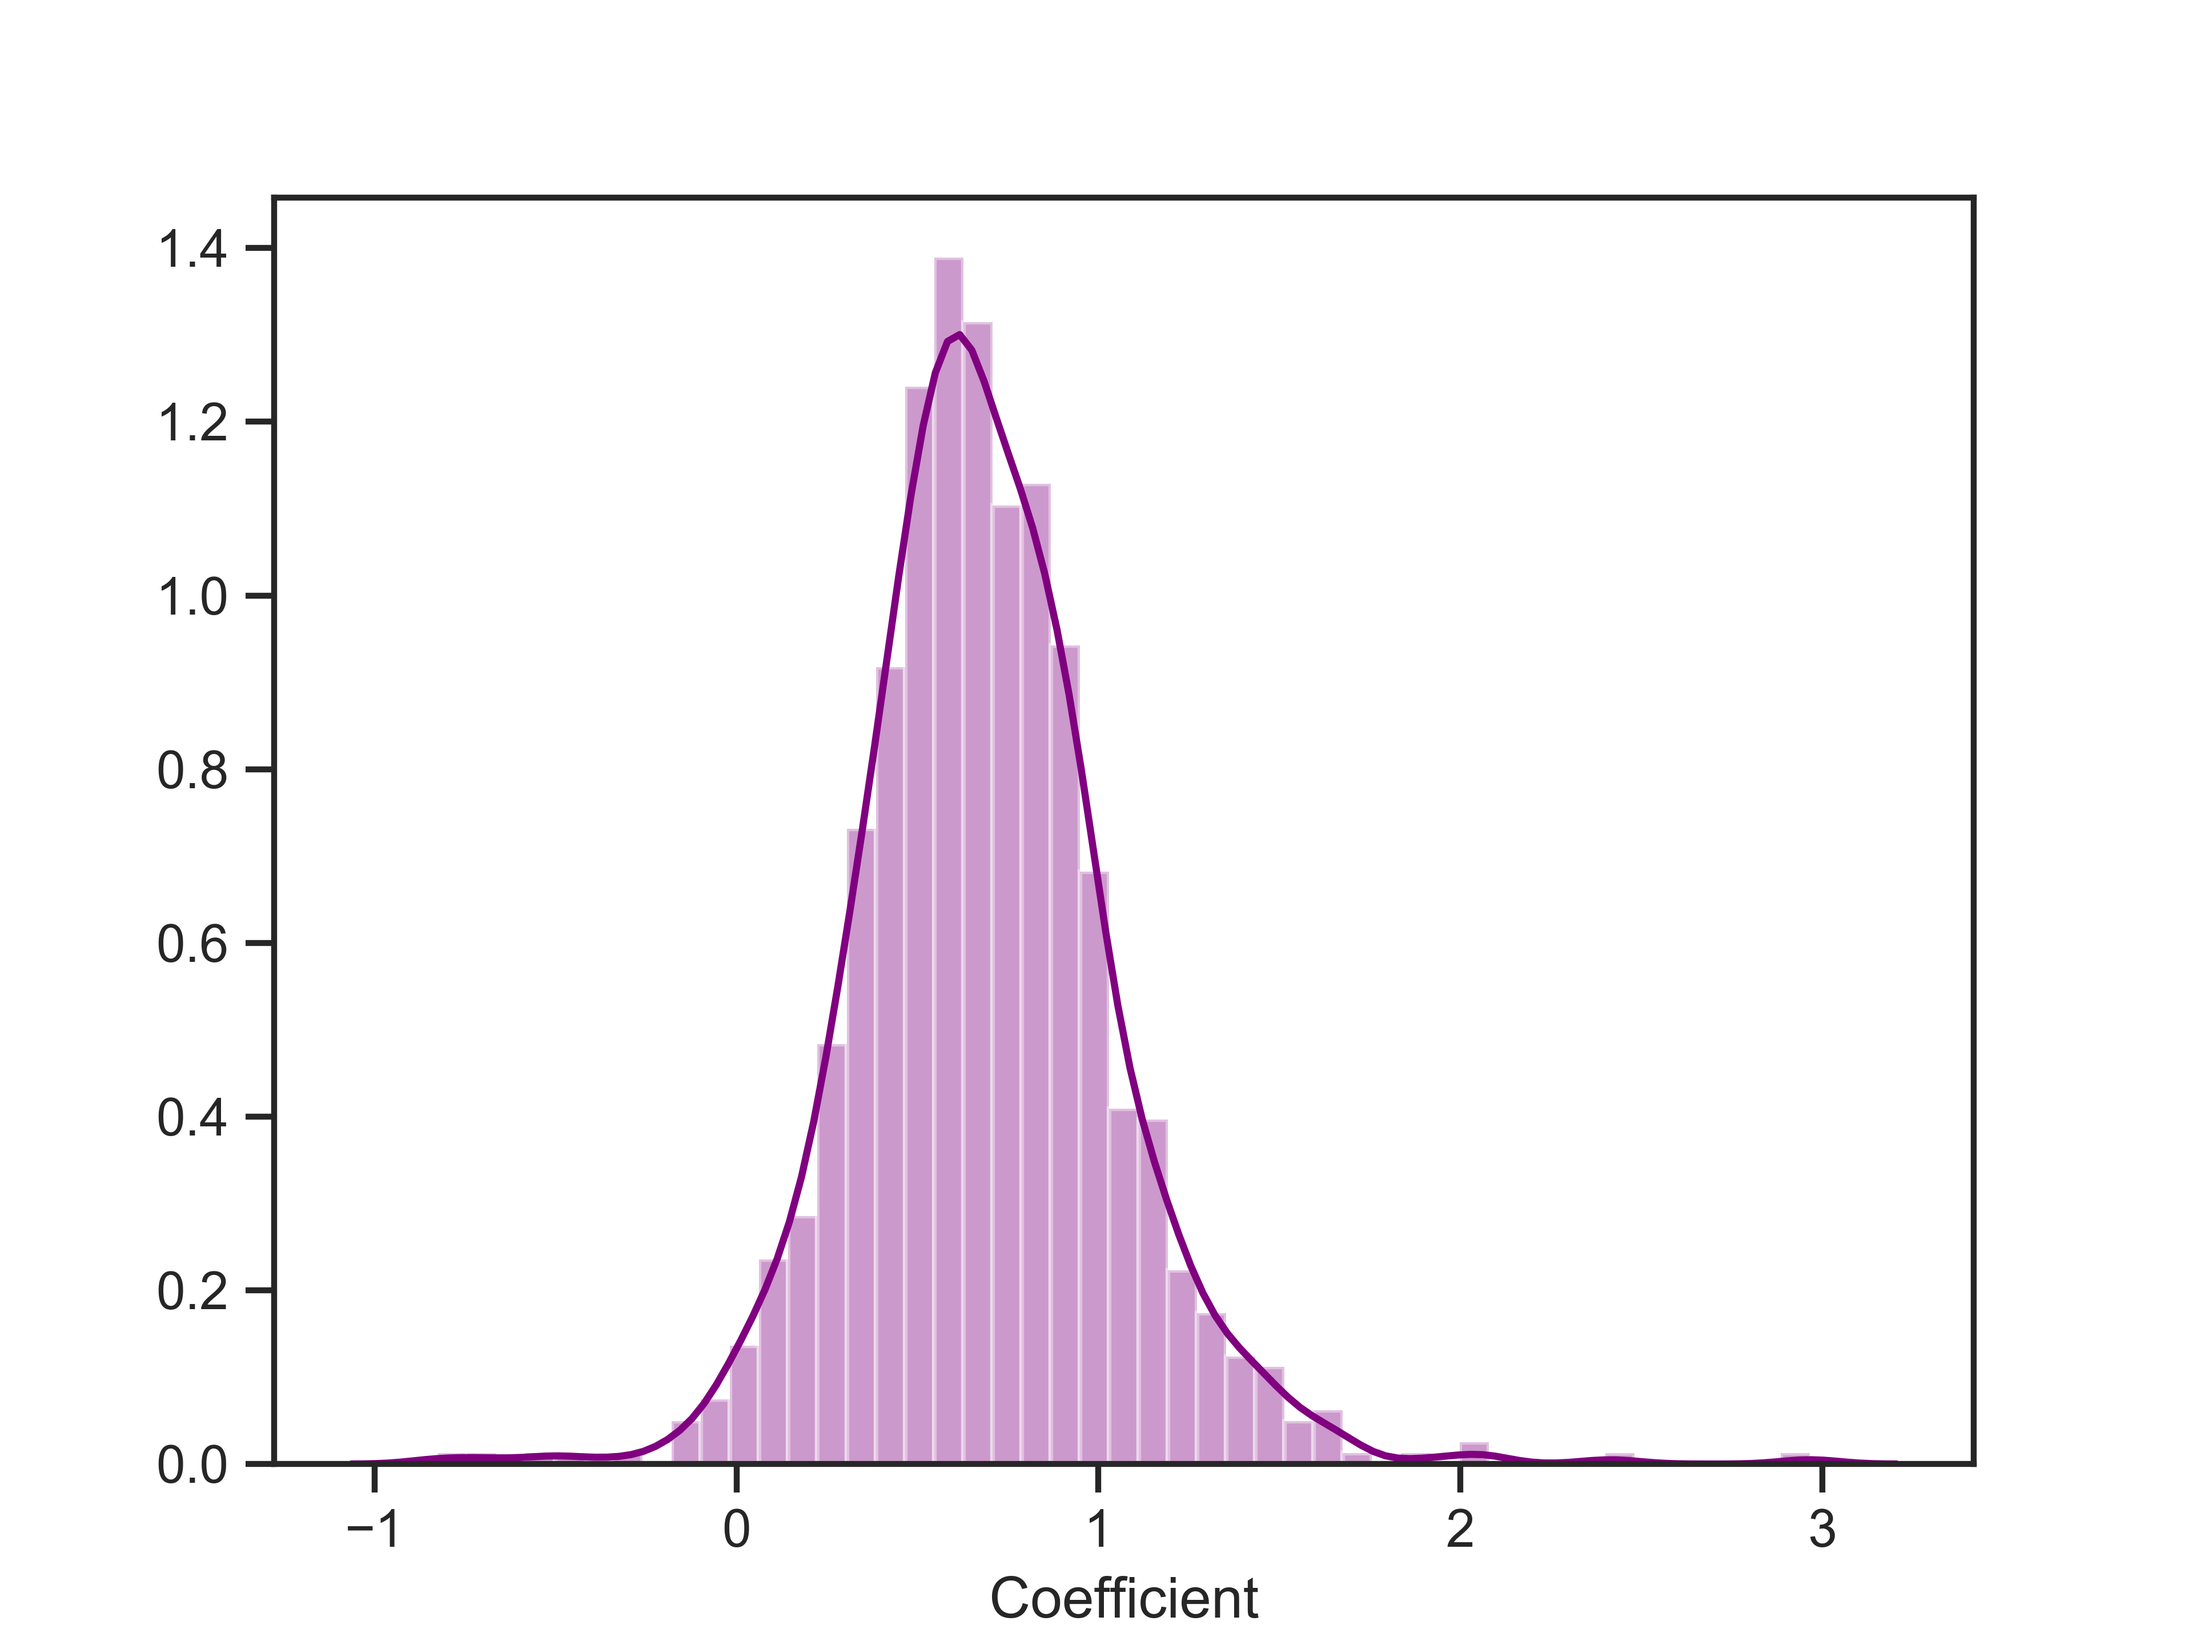
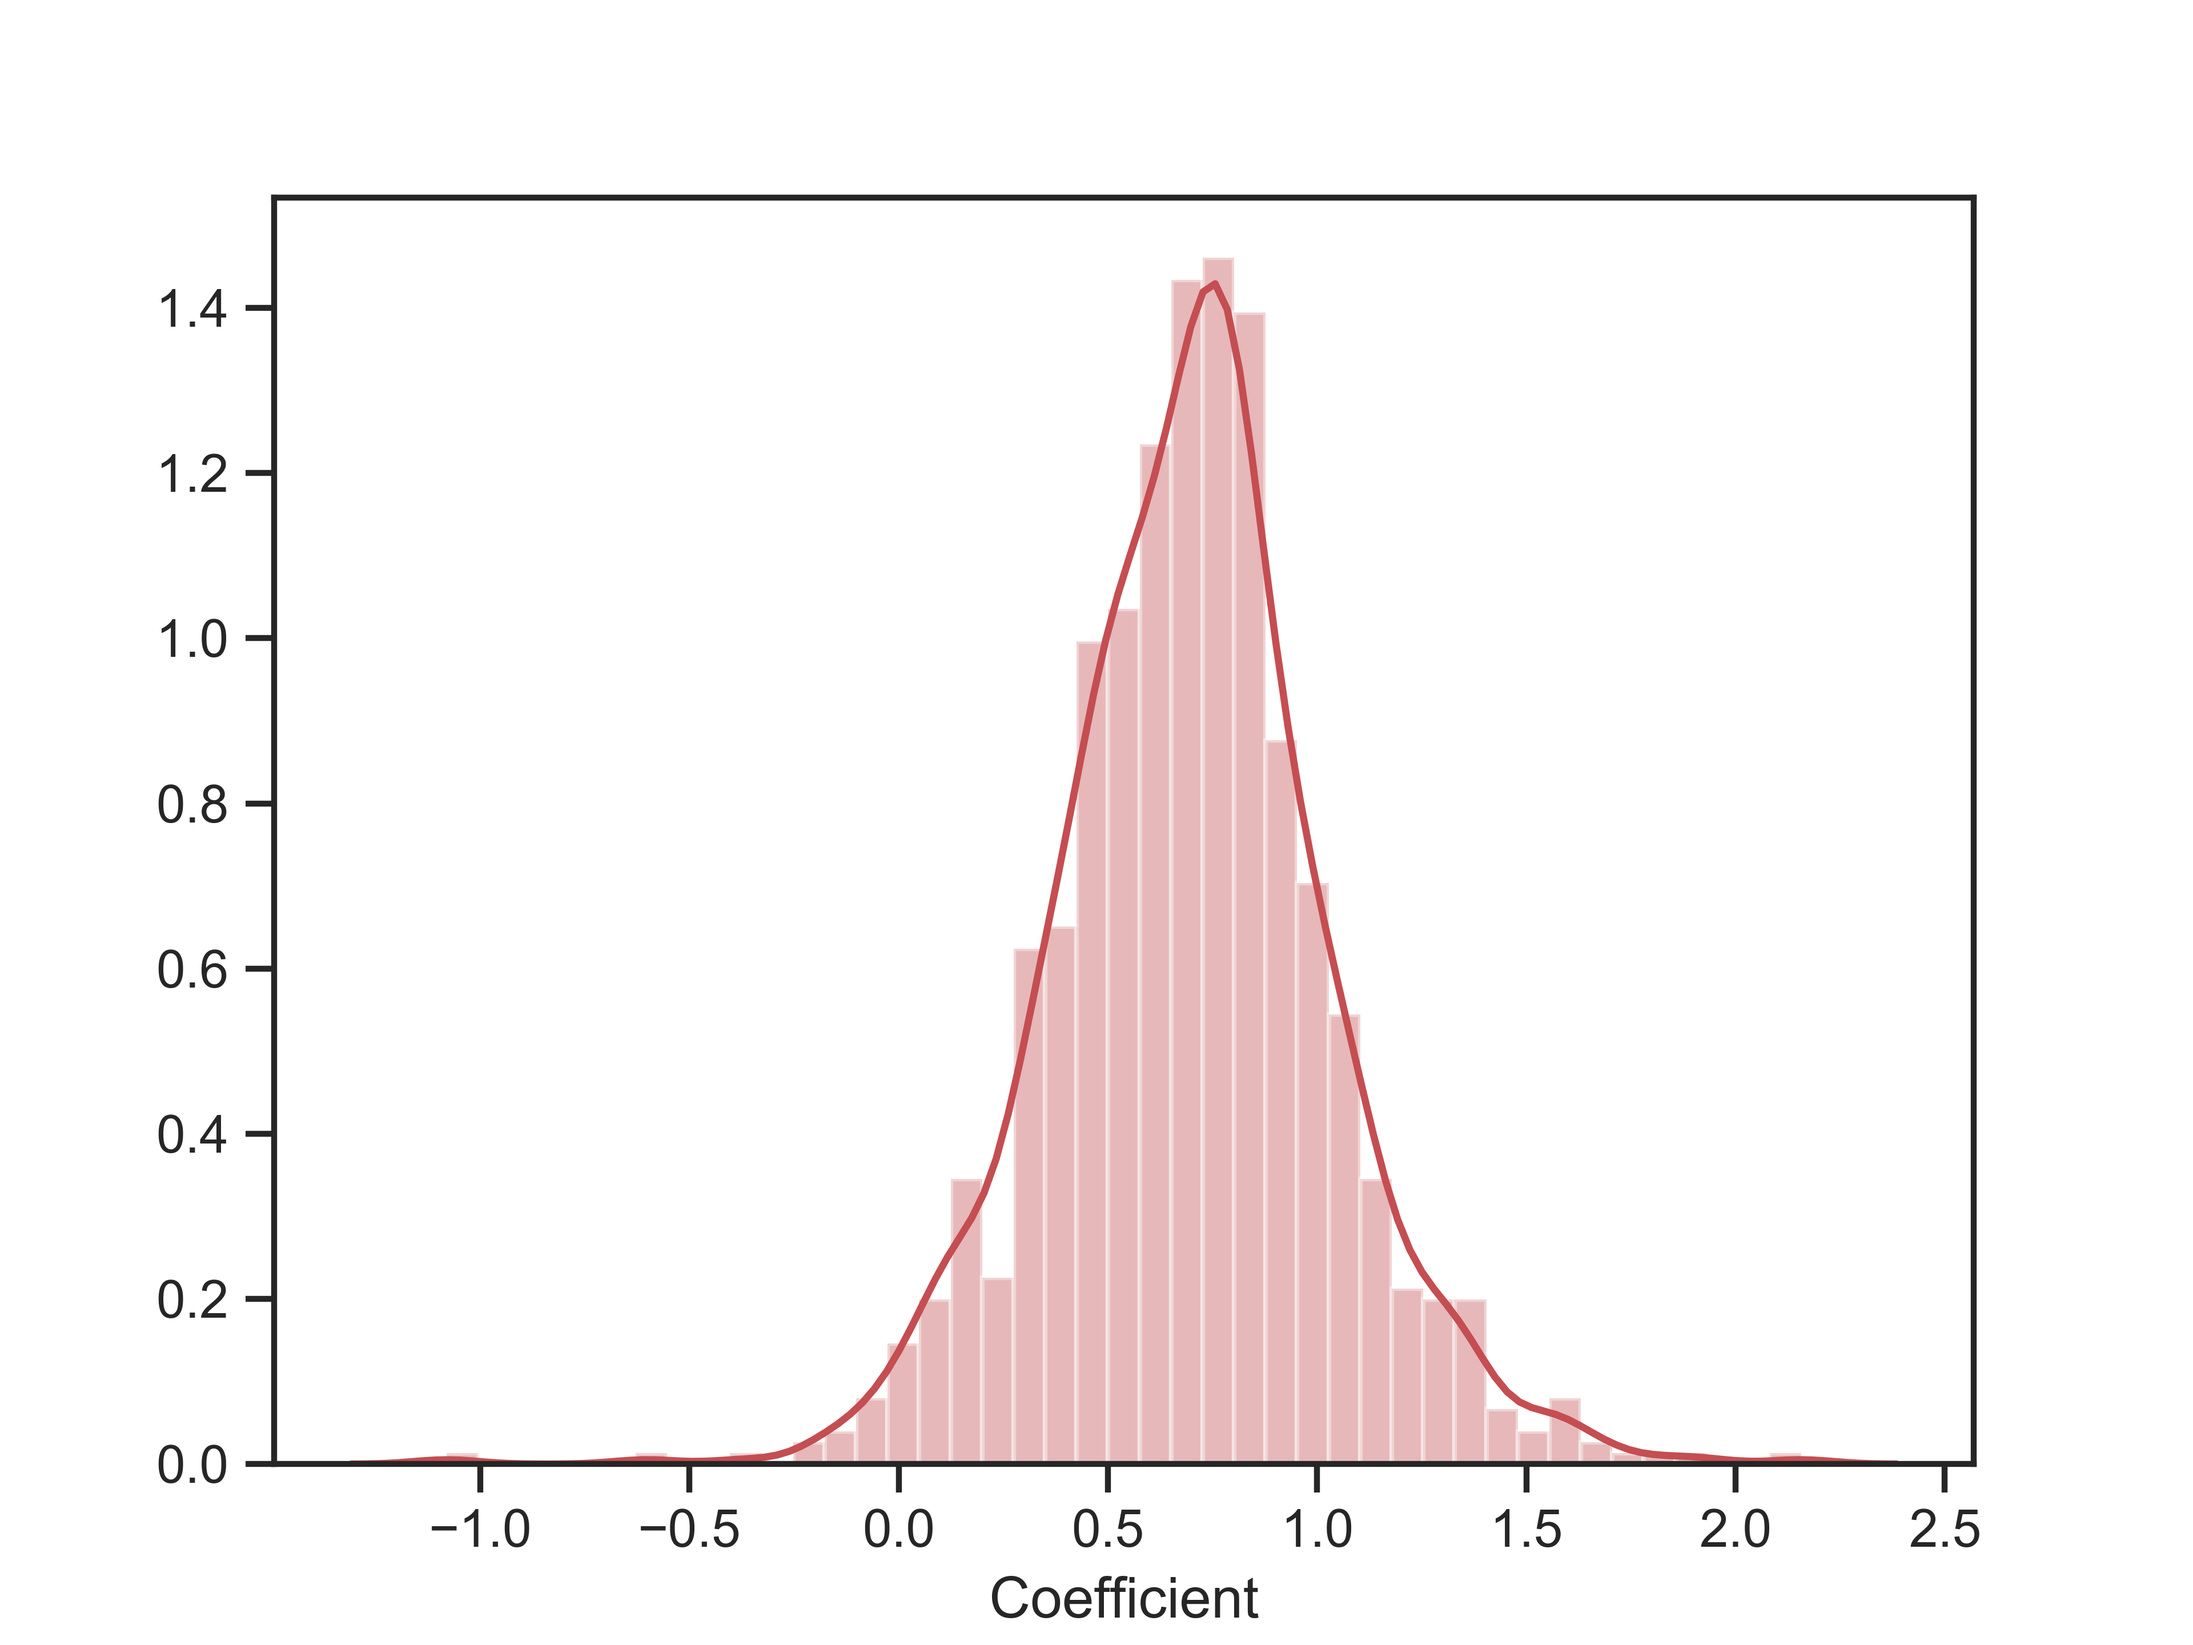
switch to linear model in r

diff --git a/analysis/monitain_stats.py b/analysis/monitain_stats.py
@@ -18,6 +18,8 @@ import seaborn as sea
 import matplotlib.pyplot as plt
 import math
 
+from sklearn.linear_model import LinearRegression
+
 #import bootstrapped.bootstrap as baseline
 #import bootstrapped.stats_functions as bs_stats
 
@@ -212,7 +214,7 @@ subj_list = all_df_byTrial.subj.unique()
 
 
 
-def bootstrapped(trial_df, subj_list, n_iterations, x, y, type):
+def bootstrapped(trial_df, subj_list, n_iterations, x, y, type, color):
 
 	trial_dict = dict()
 	for k, v in trial_df.groupby('subj'):
@@ -242,6 +244,7 @@ def bootstrapped(trial_df, subj_list, n_iterations, x, y, type):
 
 		bootstrap_data = resampled_df.groupby(['subj']).mean()
 		bootstrap_lr = pg.linear_regression(bootstrap_data[x], bootstrap_data[y])
+
 		boot_dict[i] = bootstrap_lr
 
 	# Create df of linear regression results - include intercept and coefficient for each bootstrap iteration
@@ -253,30 +256,12 @@ def bootstrapped(trial_df, subj_list, n_iterations, x, y, type):
 
 
 	# Plot betas	
-	sea.distplot(betas.coef) 
+	sea.distplot(betas.coef, color = color) 
 	plt.xlabel('Coefficient')
 	plt.savefig(FIGURE_PATH + type + '_bootstrap.png', dpi = 600)
 	plt.close()
 
 	return betas;
-
-
-
-maintain_maintain_betas = bootstrapped(maintainCost_maintainAcc_all, subj_list, 1000, 'pm_cost', 'pm_acc', 'maintain_maintain')
-monitor_monitor_betas = bootstrapped(monitorCost_monitorAcc_all, subj_list, 1000, 'pm_cost', 'pm_acc', 'monitor_monitor')
-mnm_mnm_betas = bootstrapped(mnmCost_mnmAcc_all, subj_list, 1000, 'pm_cost', 'pm_acc', 'mnm_mnm')
-
-maintain_mnm_betas = bootstrapped(maintainCost_mnmAcc_all, subj_list, 1000, 'pm_cost', 'pm_acc', 'maintain_mnm')
-monitor_mnm_betas = bootstrapped(monitorCost_mnmAcc_all, subj_list, 1000, 'pm_cost', 'pm_acc', 'monitor_mnm')
-
-
-
-
-
-
-
-
-##################
 
 
 # Does maintenance cost predict combined performance? 
@@ -299,6 +284,77 @@ mnm_results = mnm_trials.groupby(['subj']).mean().reset_index()
 mnm_cost = mnm_results.drop(columns=['pm_acc', 'meanTrial_rt','og_acc', 'pm_probe_rt'], axis=1)
 mnm_acc = mnm_results.drop(columns=['subj', 'pm_cost', 'meanTrial_rt','og_acc', 'pm_probe_rt'], axis=1) 
 mnm_pmRT = maintain_results.drop(columns=['subj', 'pm_cost', 'meanTrial_rt', 'og_acc', 'pm_acc'])
+
+## Combine DFs - cost and accuracy
+
+# Maintain cost versus combined performance
+mainCost_combineAcc = pd.concat([maintain_cost, mnm_acc], axis = 1, sort = False)
+# Monitor cost versus combined performance
+monCost_combineAcc = pd.concat([monitor_cost, mnm_acc], axis = 1, sort = False)
+# Combined cost versus combined performance
+combineCost_combineAcc = pd.concat([mnm_cost, mnm_acc], axis = 1, sort = False)
+
+# Maintain cost versus maintain performance
+mainCost_mainAcc = pd.concat([maintain_cost, maintain_acc], axis = 1, sort = False)
+# Monitor cost versus monitor performance
+monCost_monAcc = pd.concat([monitor_cost, monitor_acc], axis = 1, sort = False)
+
+# Maintain cost + Monitor cost
+combined_cost = maintain_cost.pm_cost + monitor_cost.pm_cost
+# Combined cost (above) versus combined performance
+mplusmCost_combineAcc = pd.concat([combined_cost, mnm_acc], axis=1, sort=False) 
+
+
+## ** Currently working here today 
+
+## Create a df with everything - for each subj, a column for maintain cost, monitor cost, mnm cost, maintain acc, etc.
+mainCost = maintain_cost.rename(columns = {"pm_cost" : "main_cost"})
+monCost = monitor_cost.rename(columns = {"pm_cost" : "mon_cost"}).drop(columns=['subj'])
+mnmCost = mnm_cost.rename(columns = {"pm_cost" : "mnm_cost"}).drop(columns=['subj'])
+
+mainAcc = maintain_acc.rename(columns = {"pm_acc":"main_acc"}) 
+monAcc = monitor_acc.rename(columns = {"pm_acc":"mon_acc"}) 
+mnmAcc = mnm_acc.rename(columns = {"pm_acc":"mnm_acc"}) 
+
+cost_acc_df = pd.concat([mainCost, monCost, mnmCost, mainAcc, monAcc, mnmAcc], axis=1)
+# Save to CSV for R
+fname_df = os.path.join(CSV_PATH, 'cost_acc.csv')
+cost_acc_df.to_csv(fname_df, index = False)
+
+
+# Don't do this! If it's maintain vs mnm or monitor vs mnm, it won't work
+# You can't correlate maintain trial 1 to mnm trial 1, you must take averages
+#maintain_maintain_betas = bootstrapped(maintainCost_maintainAcc_all, subj_list, 1000, 'pm_cost', 'pm_acc', 'maintain_maintain')
+#monitor_monitor_betas = bootstrapped(monitorCost_monitorAcc_all, subj_list, 1000, 'pm_cost', 'pm_acc', 'monitor_monitor')
+#mnm_mnm_betas = bootstrapped(mnmCost_mnmAcc_all, subj_list, 1000, 'pm_cost', 'pm_acc', 'mnm_mnm')
+
+#maintain_mnm_betas = bootstrapped(maintainCost_mnmAcc_all, subj_list, 1000, 'pm_cost', 'pm_acc', 'maintain_mnm')
+#monitor_mnm_betas = bootstrapped(monitorCost_mnmAcc_all, subj_list, 1000, 'pm_cost', 'pm_acc', 'monitor_mnm')
+
+
+maintain_mnm_betas = bootstrapped(mainCost_combineAcc, subj_list, 1000, 'pm_cost', 'pm_acc', 'maintain_mnm', 'b')
+monitor_mnm_betas = bootstrapped(monCost_combineAcc, subj_list, 1000, 'pm_cost', 'pm_acc', 'monitor_mnm', 'r')
+
+maintain_maintain_betas = bootstrapped(mainCost_mainAcc, subj_list, 1000, 'pm_cost', 'pm_acc', 'maintain_maintain', 'b')
+monitor_monitor_betas = bootstrapped(monCost_monAcc, subj_list, 1000, 'pm_cost', 'pm_acc', 'monitor_monitor', 'r')
+mnm_mnm_betas = bootstrapped(combineCost_combineAcc, subj_list, 1000, 'pm_cost', 'pm_acc', 'mnm_mnm', 'purple')
+
+
+
+fname_maintain_mnm = os.path.join(CSV_PATH, 'maintainCost_mnmAcc.csv') 
+mainCost_combineAcc.to_csv(fname_maintain_mnm, index=False)   
+
+
+x_lr = np.array(mainCost_combineAcc.pm_cost).reshape((-1,1))
+y_lr = np.array(mainCost_combineAcc.pm_acc)
+model = LinearRegression().fit(x_lr, y_lr)
+
+
+
+
+
+##################
+
 
 
 ##############
@@ -329,24 +385,7 @@ monitor_pmRT = findOutliers(monitor_pmRT, monitor_pmRT.pm_probe_rt)
 mnm_pmRT = findOutliers(mnm_pmRT, mnm_pmRT.pm_probe_rt)
 
 
-## Combine DFs - cost and accuracy
 
-# Maintain cost versus combined performance
-mainCost_combineAcc = pd.concat([maintain_cost, mnm_acc], axis = 1, sort = False)
-# Monitor cost versus combined performance
-monCost_combineAcc = pd.concat([monitor_cost, mnm_acc], axis = 1, sort = False)
-# Combined cost versus combined performance
-combineCost_combineAcc = pd.concat([mnm_cost, mnm_acc], axis = 1, sort = False)
-
-# Maintain cost versus maintain performance
-mainCost_mainAcc = pd.concat([maintain_cost, maintain_acc], axis = 1, sort = False)
-# Monitor cost versus monitor performance
-monCost_monAcc = pd.concat([monitor_cost, monitor_acc], axis = 1, sort = False)
-
-# Maintain cost + Monitor cost
-combined_cost = maintain_cost.pm_cost + monitor_cost.pm_cost
-# Combined cost (above) versus combined performance
-mplusmCost_combineAcc = pd.concat([combined_cost, mnm_acc], axis=1, sort=False) 
 
 ## Combine DFs - cost and RT
 
